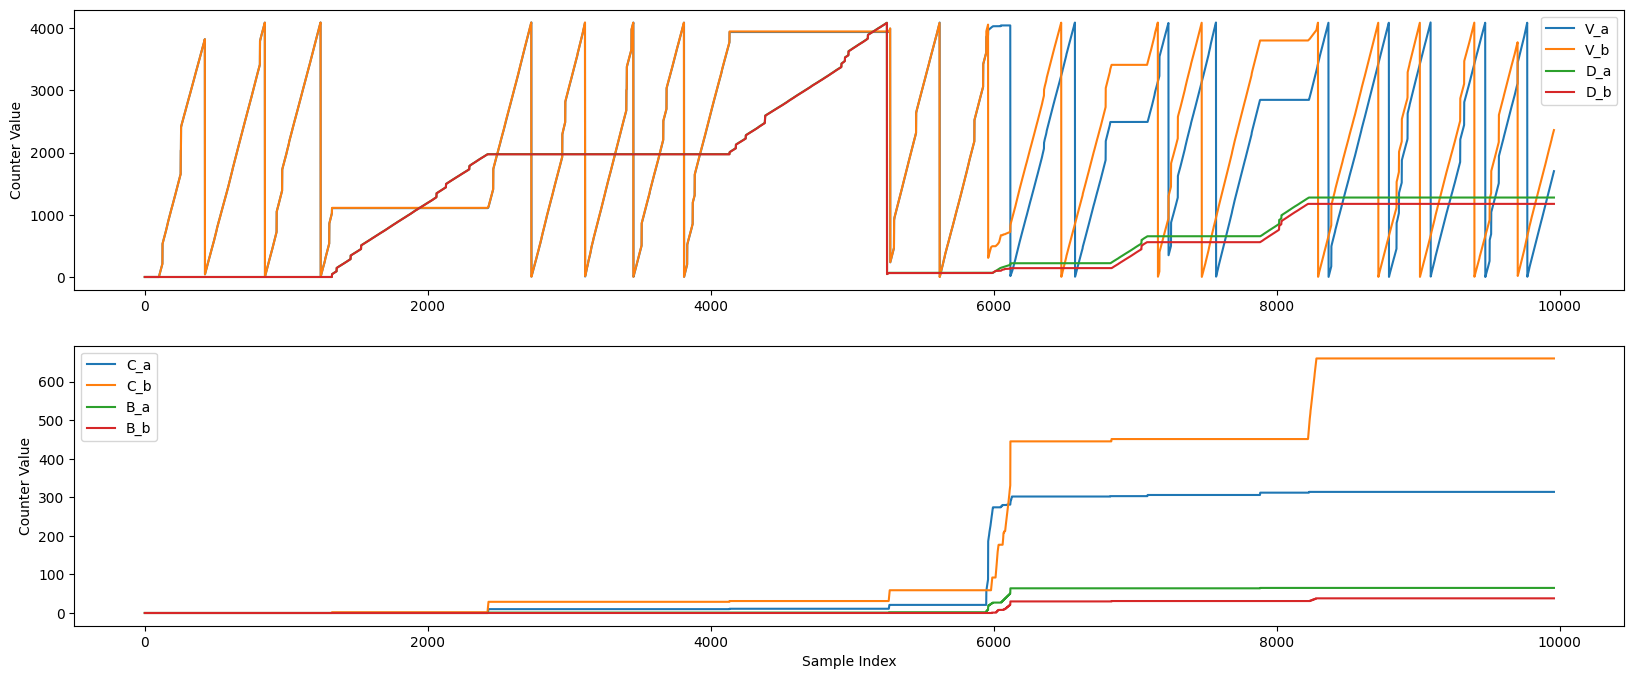
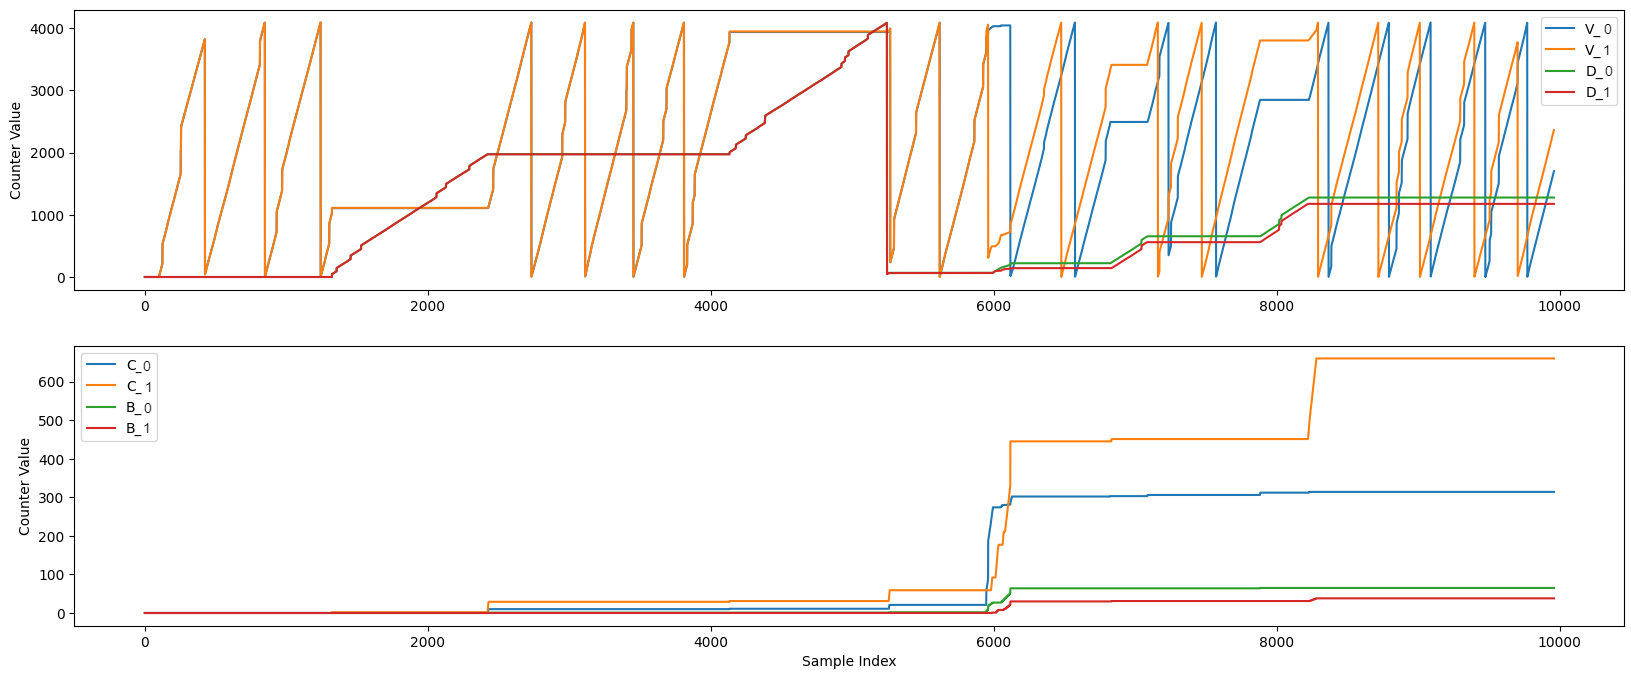
Address PR feedback

diff --git a/source/getting-started/user-guide/amds-interface/index.md b/source/getting-started/user-guide/amds-interface/index.md
@@ -16,7 +16,7 @@ First, the AMDS hardware needs to be configured:
 
 Now that the hardware is configured, the AMDC firmware must be configured.
 
-## Include AMDS code and Configure AMDC GPIO Port
+## Include AMDS Code and Configure AMDC GPIO Port
 
 By default, the AMDS drivers are not compiled into the C-code.
 
@@ -43,7 +43,7 @@ Once the `gpio_mux` is routed, we can now make inquiries to the AMDS for data. T
 
 - `<port>` is `1-4` 
 - `<device>` should be set to `1` for the AMDS connection
-    
+
 Once the `gp3io_mux` is routed, we can now make inquiries to the AMDS for data. This is done through the `amds <port> XXXX` command structure described in the `help` interface. Note that `<port>` ranges from `1-4` and should correspond to the GPIO port number your AMDS is connected to.
 
 ### Configure GPIO/GP3IO Mux in Code
@@ -58,7 +58,7 @@ Place the header file in the custom user app .c file
 #include "drv/gpio_mux.h"
 ```
 
-Place the code below into your custom user app init function. Modify the first variable in the function call to match the physical port connection joining the AMDC with the AMDS.  Note this is zero-indexed and the GPIO port per the silk screen is one-indexed.
+Place the code below into your custom user app init function. Modify the first variable in the function call to match the physical port connection joining the AMDC with the AMDS. Note this is zero-indexed and the GPIO port per the silk screen is one-indexed.
 
 ```C
 // Configure GPIO mux for the AMDS
@@ -101,8 +101,6 @@ To learn more about how to enable sensors and how to configure triggering, pleas
 
 
 ## Requesting and Retrieving Data from the AMDS
-
-
 
 After the AMDS is triggered to begin sampling, each sensor card populated on the AMDS will sample and provide the data the processor on the mainboard. As soon as the mainboard has collected all the data from the sensor cards, the mainboard will automatically send all the data back to the AMDC, where the data for each sensor card will be made available in the corresponding channel's data register. To learn more about the firmware interface between the AMDC and AMDS please see the [AMDS Firmware documentation](/accessories/amds/firmware/index.md), and the AMDC driver code in the [AMDC-Firmware repository](https://github.com/Severson-Group/AMDC-Firmware). The FPGA code can be found in `ip_repo/amdc_amds_1.0`, and C code can be found in `sdk/app_cpu1/common/drv/amds.c`.
 
@@ -246,7 +244,7 @@ For example, if the value is `0x0002` for the first UART data line and `0x0003` 
 Consider running this experiment: the AMDS-AMDC link is working and you are reading valid data. Then, the cable comes unplugged.
 
 - When the link is working, the `Valid` counter will continuously be incrementing (and wrapping around at the 16-bit limit)
-- As the cable comes unplugged, chances are, it will occur during some byte transmission. This will cause some  corrupt data bytes and some individual bytes to timeout. The `Corrupt` and `Timed out bytes` counters may each increment a few times based on exactly how the cable became unplugged.
+- As the cable comes unplugged, chances are, it will occur during some byte transmission. This will cause some corrupt data bytes and some individual bytes to timeout. The `Corrupt` and `Timed out bytes` counters may each increment a few times based on exactly how the cable became unplugged.
 - After the cable is fully unplugged, the AMDC views every data stream requested as a data timeout, so the `Timed out data` counter will continuously increment. The other counters should remain frozen in their last value.
 
 This debug counter behaviour can be seen occuring repeatedly in the following video captured during experimental testing. When connected, `Valid` is incrementing, and when disconnected, `Timed out data` is incrementing. The `Corrupt` and `Timed out bytes` counters increment as the transition is made between the connected and disconnected states.
@@ -260,3 +258,25 @@ The image below also shows a graphical capture of the counters incrementing thei
 :height: 18em
 :align: left
 ```
+
+| Upper Graph Legend Name | Counter Name                      |
+|-------------------------|-----------------------------------|
+| <span style="color:royalblue;font-weight:bold">V_0</span>   | Valid Count - Data Line 0          |
+| <span style="color:darkorange;font-weight:bold">V_1</span>  | Valid Count - Data Line 1          |
+| <span style="color:forestgreen;font-weight:bold">D_0</span> | Timed out Data Count - Data Line 0 |
+| <span style="color:firebrick;font-weight:bold">D_1</span>   | Timed out Data Count - Data Line 1 |
+
+You can see in the upper graph that the `Valid` counters for both Data Lines 0 and 1 ramp up (and overflow back to zero) while the cable between the AMDC and AMDS is plugged in. At around time 1500, the cable is unplugged. The value of the `Valid` counter freezes, while the value of the `Timed out data` counter begins to ramp up. Around time 2200, the cable is plugged back in and the counters switch off, and unplugged again at time 4000.
+
+Around time 6000, the cable is wiggled at the connector, rapidly connecting and disconnecting the two boards, to simulate a cable that is not fully plugged in. During this operating condition, the `Valid` and `Timed out data` counters rapidly switch off between ramping and freezing. 
+
+| Lower Graph Legend Name | Counter Name                      |
+|-------------------------|-----------------------------------|
+| <span style="color:royalblue;font-weight:bold">C_0</span>   | Corrupt Count - Data Line 0          |
+| <span style="color:darkorange;font-weight:bold">C_1</span>  | Corrupt Count - Data Line 1          |
+| <span style="color:forestgreen;font-weight:bold">B_0</span> | Timed out Byte Count - Data Line 0 |
+| <span style="color:firebrick;font-weight:bold">B_1</span>   | Timed out Byte Count - Data Line 1 |
+
+In the lower graph, the `Corrupt` and `Timed out Byte` counters for both data lines are shown. These counters should not really be increasing constantly during any operation, instead they may jump up a bit each time the cable becomes plugged in or unplugged, as a few individual data packets become corrupted or timeout.
+
+The bytes become corrupted much more frequently when the cable is loosely-connected/jostled after time 6000.
